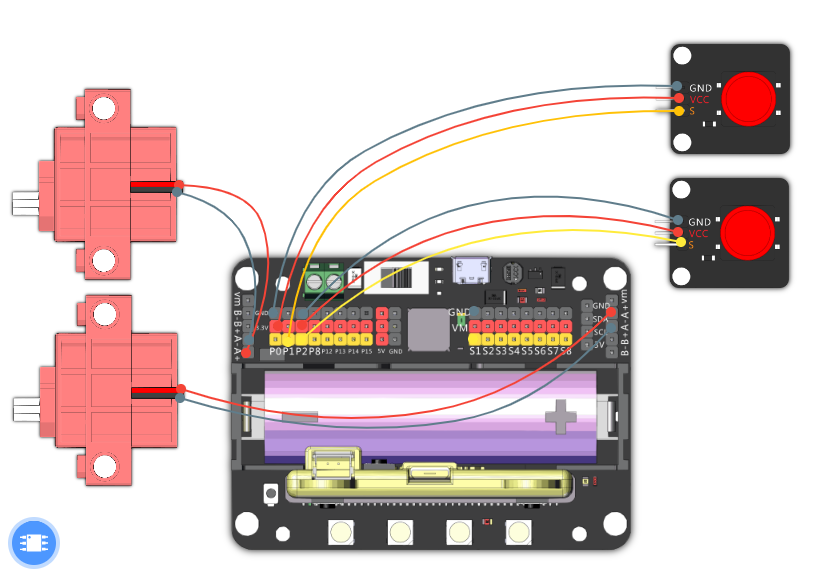
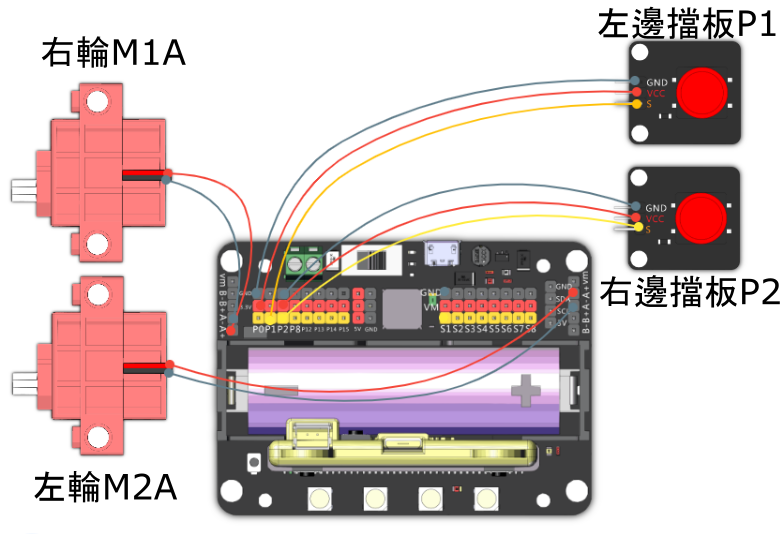
12 in 1 finish

diff --git a/Kits/12in1/info/instructions/block.md b/Kits/12in1/info/instructions/block.md
@@ -1,16 +1,16 @@
-### 9. 路障剋星
+# 路障剋星
 
-利用機械人的大夾子，將大型的障礙物搬到戰場上阻擋敵方前進，或者負責將得分高的物資搬回基地。
+利用機械人的大夾子，將大型的障礙物搬到戰場上阻擋敵方前進，或者負責清除路障。
 
 ![](images/block.png)
 
-## 組裝說明書
+## 組裝說明書和參考程式
 
-說明書資源包： [資源包下載地址](https://bit.ly/Powerbrick10in1BuildingGuide)
+說明書和參考程式資源包： [資源包下載地址](https://bit.ly/Powerbrick10in1BuildingGuide)
 
 ## 參考接線
 
-
+![](images/block_wire.png)
 
 ## 模型玩法
 

diff --git a/Kits/12in1/info/instructions/turret.md b/Kits/12in1/info/instructions/turret.md
@@ -4,17 +4,17 @@
 
 ![](images/turrent.png)
 
-## 組裝說明書
+## 組裝說明書和參考程式
 
-說明書資源包： [資源包下載地址](https://bit.ly/Powerbrick10in1BuildingGuide)
+說明書和參考程式資源包： [資源包下載地址](https://bit.ly/Powerbrick10in1BuildingGuide)
 
 ## 參考接線
 
-
+![](images/turret_wire.png)
 
 ## 模型玩法
 
 1. 在炮台頂部齒輪上裝好橡筋，然後將模型打開。
 2. 按下左邊的按鈕調整炮台發射角度。
 3. 按下Microbit的A和B鍵調教炮台方向。
-4. 瞄準之後按左邊按鈕，將橡筋發射。
+4. 瞄準之後按右邊按鈕，將橡筋發射。

diff --git a/Kits/12in1/info/instructions/tissue.md b/Kits/12in1/info/instructions/tissue.md
@@ -4,13 +4,13 @@
 
 ![](images/tissue.png)
 
-## 組裝說明書
+## 組裝說明書和參考程式
 
-說明書資源包： [資源包下載地址](https://bit.ly/Powerbrick10in1BuildingGuide)
+說明書和參考程式資源包： [資源包下載地址](https://bit.ly/Powerbrick10in1BuildingGuide)
 
 ## 參考接線
 
-
+![](images/tissue_wire.png)
 
 ## 模型玩法
 

diff --git a/Kits/12in1/info/instructions/soccer.md b/Kits/12in1/info/instructions/soccer.md
@@ -4,12 +4,13 @@
 
 ![](images/soccer.png)
 
-## 組裝說明書
+## 組裝說明書和參考程式
 
-說明書資源包： [資源包下載地址](https://bit.ly/Powerbrick10in1BuildingGuide)
+說明書和參考程式資源包： [資源包下載地址](https://bit.ly/Powerbrick10in1BuildingGuide)
 
 ## 參考接線
 
+![](images/soccer_wire.png)
 
 ## 模型玩法
 

diff --git a/Kits/12in1/info/instructions/speed.md b/Kits/12in1/info/instructions/speed.md
@@ -4,13 +4,13 @@
 
 ![](images/speed.png)
 
-## 組裝說明書
+## 組裝說明書和參考程式
 
-說明書資源包： [資源包下載地址](https://bit.ly/Powerbrick10in1BuildingGuide)
+說明書和參考程式資源包： [資源包下載地址](https://bit.ly/Powerbrick10in1BuildingGuide)
 
 ## 參考接線
 
-
+![](images/speed_wire.png)
 
 ## 模型玩法
 

diff --git a/Kits/12in1/info/instructions/dino.md b/Kits/12in1/info/instructions/dino.md
@@ -4,13 +4,13 @@
 
 ![](images/dino.png)
 
-## 組裝說明書
+## 組裝說明書和參考程式
 
-說明書資源包： [資源包下載地址](https://bit.ly/Powerbrick10in1BuildingGuide)
+說明書和參考程式資源包： [資源包下載地址](https://bit.ly/Powerbrick10in1BuildingGuide)
 
 ## 參考接線
 
-
+![](images/dino_wire.png)
 
 ## 模型玩法
 

diff --git a/Kits/12in1/info/instructions/sumo.md b/Kits/12in1/info/instructions/sumo.md
@@ -4,12 +4,13 @@
 
 ![](images/sumo.png)
 
-## 組裝說明書
+## 組裝說明書和參考程式
 
-說明書資源包： [資源包下載地址](https://bit.ly/Powerbrick10in1BuildingGuide)
+說明書和參考程式資源包： [資源包下載地址](https://bit.ly/Powerbrick10in1BuildingGuide)
 
 ## 參考接線
 
+![](images/sumo_wire.png)
 
 ## 模型玩法
 

diff --git a/Kits/12in1/info/instructions/transport.md b/Kits/12in1/info/instructions/transport.md
@@ -4,9 +4,9 @@
 
 ![](images/transport.png)
 
-## 組裝說明書
+## 組裝說明書和參考程式
 
-說明書資源包： [資源包下載地址](https://bit.ly/Powerbrick10in1BuildingGuide)
+說明書和參考程式資源包： [資源包下載地址](https://bit.ly/Powerbrick10in1BuildingGuide)
 
 ## 參考接線
 

diff --git a/Kits/12in1/info/instructions/mantis.md b/Kits/12in1/info/instructions/mantis.md
@@ -4,9 +4,9 @@
 
 ![](images/mantis.png)
 
-## 組裝說明書
+## 組裝說明書和參考程式
 
-說明書資源包： [資源包下載地址](https://bit.ly/Powerbrick10in1BuildingGuide)
+說明書和參考程式資源包： [資源包下載地址](https://bit.ly/Powerbrick10in1BuildingGuide)
 
 ## 參考接線
 

diff --git a/Kits/12in1/info/instructions/catch.md b/Kits/12in1/info/instructions/catch.md
@@ -4,9 +4,9 @@
 
 ![](images/catch.png)
 
-## 組裝說明書
+## 組裝說明書和參考程式
 
-說明書資源包： [資源包下載地址](https://bit.ly/Powerbrick10in1BuildingGuide)
+說明書和參考程式資源包： [資源包下載地址](https://bit.ly/Powerbrick10in1BuildingGuide)
 
 ## 參考接線
 

diff --git a/Kits/12in1/info/instructions/rhino.md b/Kits/12in1/info/instructions/rhino.md
@@ -4,9 +4,9 @@
 
 ![](images/rhino.png)
 
-## 組裝說明書
+## 組裝說明書和參考程式
 
-說明書資源包： [資源包下載地址](https://bit.ly/Powerbrick10in1BuildingGuide)
+說明書和參考程式資源包： [資源包下載地址](https://bit.ly/Powerbrick10in1BuildingGuide)
 
 ## 參考接線
 
